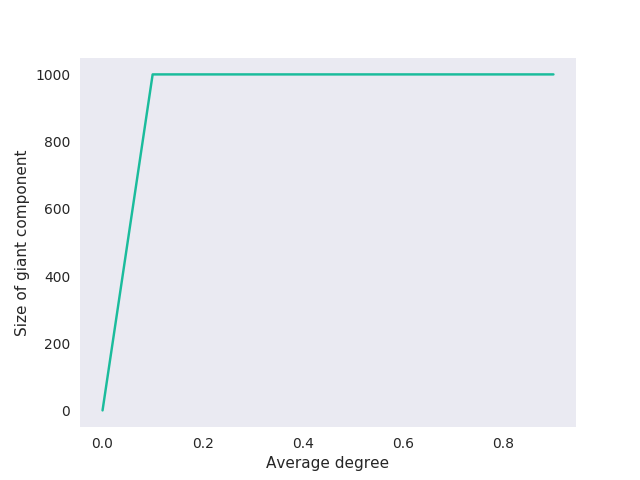
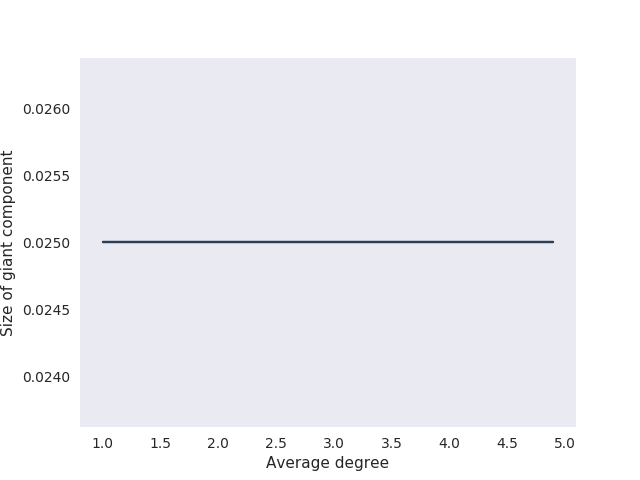
Assignment 3 - Exercise 3 - Plot

diff --git a/assignment3/assignment3.py b/assignment3/assignment3.py
@@ -13,15 +13,21 @@ Gabriel Henrique Scalici - 9292970
 
 Assignment 3 - Modelling complex networks, failures and attacks
 '''
-import math
 
+# networks
 import networkx as nx
 import igraph as ig
 
+# data processing
 import numpy as np
+from sklearn.preprocessing import normalize
+
+# plotting
 from matplotlib import pyplot as pp
 import seaborn as sns
 
+# tools
+import math
 import progressbar
 
 # plot colors
@@ -160,7 +166,7 @@ def network_models():
     moments["watts"] = []
     moments["barabasi"] = []
 
-    print("Calculating Erdös-Rényi measurements")    
+    print("Calculating Erdös-Rényi measurements...")    
     for graph in erdos:
         lens["erdos"].append(len(graph))
         degrees["erdos"].append(average_degree(graph))
@@ -170,7 +176,7 @@ def network_models():
         entropies["erdos"].append(entropy(graph))
         moments["erdos"].append(stat_moment(graph, 2))
 
-    print("Calculating Watts-Strogatz measurements")
+    print("Calculating Watts-Strogatz measurements...")
     for graph in watts:
         lens["watts"].append(len(graph))
         degrees["watts"].append(average_degree(graph))
@@ -180,7 +186,7 @@ def network_models():
         entropies["watts"].append(entropy(graph))
         moments["watts"].append(stat_moment(graph, 2))
 
-    print("Calculating Barabási-Albert measurements")
+    print("Calculating Barabási-Albert measurements...")
     for graph in barabasi:
         lens["barabasi"].append(len(graph))
         degrees["barabasi"].append(average_degree(graph))
@@ -260,16 +266,24 @@ def ER_model():
     # degrees = np.arange(0.0, 1.0, 0.1)
     
     print("Finding giant components for different average degrees...")
+    bar = progressbar.ProgressBar(max_value=5)
     for p in degrees:
+        bar.update(p)
         # generate ER networks
         current = nx.erdos_renyi_graph(1000, p)
         # store size of giant component for current p
         giants[p] = len(giant_component(current))
+    bar.finish()
     
+    # normalize data
+    y1 = (np.asarray(list(giants.values()))).reshape(1, -1)
+    y1 = normalize(y1, norm='l1', axis=1)
+    x = degrees.reshape(1,-1)
+
     # plot
     print("Plotting...")
     sns.set()
-    pp.plot(degrees, list(giants.values()), color=colors[0])
+    pp.plot(x[0], y1[0], color=colors[6])
     pp.xlabel("Average degree")
     pp.ylabel("Size of giant component")
     pp.grid(False)
@@ -285,22 +299,36 @@ def WS_model():
     print("Generating WS networks...")
     # generate WS networks
     for p in np.arange(0.0, 1.0, 0.001):
-        bar.update(p)
         network = nx.watts_strogatz_graph(1000, 5, p)
         clusterings.append(nx.average_clustering(network))
         paths.append(nx.average_shortest_path_length(network))
+        bar.update(p)
     bar.finish()
 
     # plot
     print("Plotting...")
 
-    x = np.arange(0, 1, 0.001)
+    # list to numpy array
+    y1 = (np.asarray(clusterings)).reshape(1, -1)
+    y2 = (np.asarray(paths)).reshape(1, -1)
+
+    # normalize data
+    y1 = normalize(y1, norm='l1', axis=1)
+    y2 = normalize(y2, norm='l1', axis=1)
+
+    x = (np.arange(0, 1, 0.001)).reshape(1,-1)
+
     sns.set()
-    pp.plot(x, clusterings, color=colors[0], label="clustering coefficient")
-    pp.plot(x, paths, color=colors[1], label="mean vertex-vertex distance")
+    pp.title("Watts-Strogatz - Small World")
+    pp.xscale('log')
+    # pp.yscale('log')
+
+    pp.plot(x[0], y1[0], color=colors[5], label="clustering coefficient")
+    pp.plot(x[0], y2[0], color=colors[6], label="mean vertex-vertex distance")
     pp.xlabel("rewiring probability")
     pp.ylabel("coefficient or distance")
     pp.grid(False)
+    pp.legend()
     pp.savefig('plots/WS-evolution.png')
     pp.clf() 
 
@@ -383,7 +411,7 @@ def WS_model():
 def main():
     # network_models()
     # ER_model()
-    WS_model()
+    # WS_model()
     print("done")
 
 if __name__ == "__main__":
